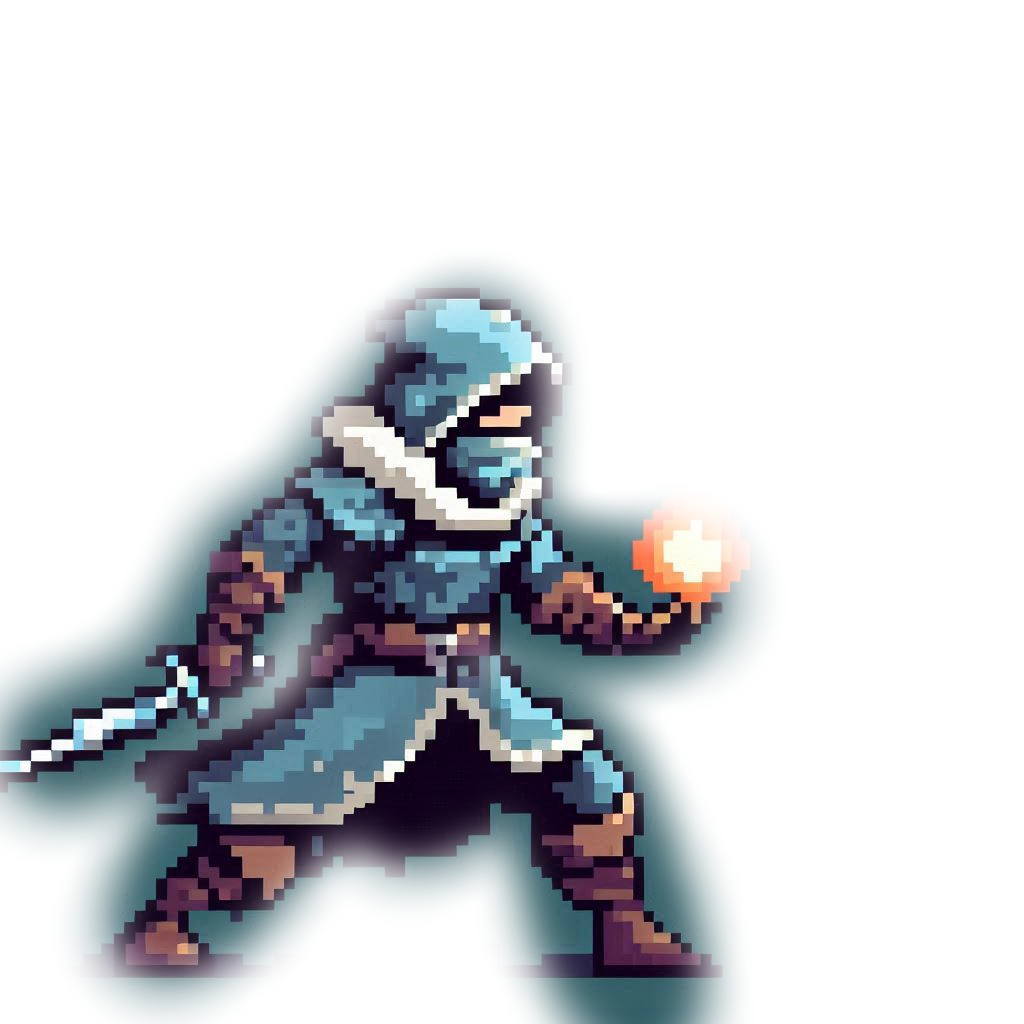
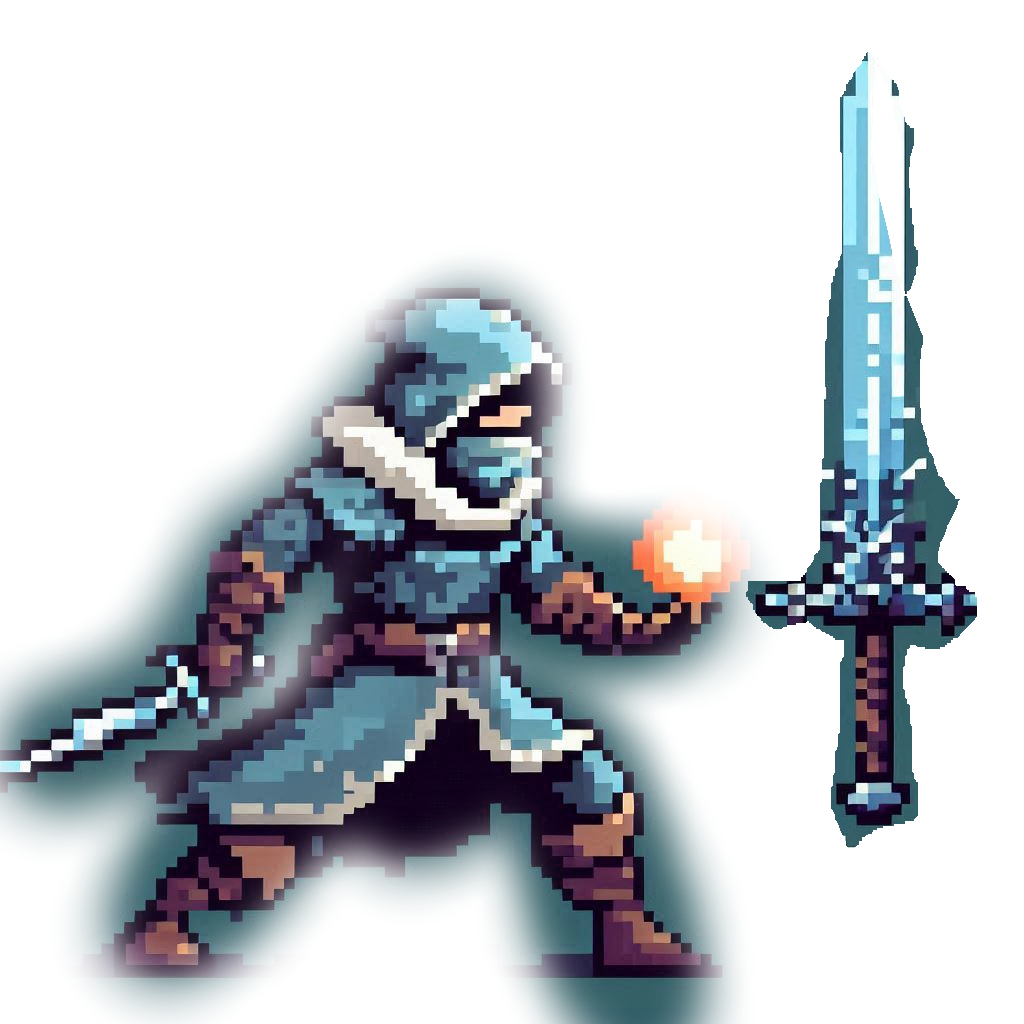
Animation

Changed region(s): [[0.7188, 0.0625, 0.9688, 0.8438]]

diff --git a/InitialScrapWork.html b/InitialScrapWork.html
@@ -5,10 +5,28 @@
     <title>2D Side Scroller</title>
     <style>
         canvas { background: #eee; display: block; margin: 0 auto; }
+
+        /* CSS for rotating the sword */
+        .sword-attack {
+            position: absolute;
+            width: 100px; /* Adjust the size as needed */
+            height: 100px; /* Adjust the size as needed */
+            animation: swing 0.5s forwards;
+        }
+
+        @keyframes swing {
+            0% { transform: rotate(0deg); }
+            25% { transform: rotate(20deg); }
+            50% { transform: rotate(40deg); }
+            75% { transform: rotate(60deg); }
+            100% { transform: rotate(80deg); }
+        }
     </style>
 </head>
 <body>
-    <canvas id="gameCanvas" width="800" height="400"></canvas>
+    <canvas id="gameCanvas" width="1600" height="800"></canvas>
+    <img id="sword" class="sword-attack" src="art/croppedsword.png" style="display: none;" />
+
     <script>
         const canvas = document.getElementById('gameCanvas');
         const ctx = canvas.getContext('2d');
@@ -24,17 +42,25 @@
             jumpPower: 12,
             isJumping: false,
             doubleJump: false,
-            gravity: 0.5
+            gravity: 0.5,
+            facingRight: true // Track the direction the character is facing
         };
 
         let keys = {};
         let characterImage = new Image();
-        characterImage.src = "art/charcropped.png"; // Replace with the correct path to your pixel art image
+        characterImage.src = "art/charnosword.png"; // Replace with the correct path to your pixel art image
 
         // Ensure the image is loaded before drawing
         characterImage.onload = function() {
             function drawCharacter() {
-                ctx.drawImage(characterImage, character.x, character.y, character.width, character.height);
+                ctx.save(); // Save the current canvas state
+                if (!character.facingRight) {
+                    ctx.scale(-1, 1); // Flip horizontally
+                    ctx.drawImage(characterImage, -character.x - character.width, character.y, character.width, character.height);
+                } else {
+                    ctx.drawImage(characterImage, character.x, character.y, character.width, character.height);
+                }
+                ctx.restore(); // Restore the canvas state
             }
 
             function clearCanvas() {
@@ -52,9 +78,11 @@
             function moveCharacter() {
                 if (keys['ArrowLeft']) {
                     character.dx = -character.speed;
+                    character.facingRight = false; // Update direction
                 }
                 if (keys['ArrowRight']) {
                     character.dx = character.speed;
+                    character.facingRight = true; // Update direction
                 }
                 if (!keys['ArrowLeft'] && !keys['ArrowRight']) {
                     character.dx = 0;
@@ -68,6 +96,40 @@
                     character.dy = -character.jumpPower;
                     character.doubleJump = true;
                 }
+
+// Assuming this is within the key press handling block
+if (keys['a']) {
+    console.log("A key pressed");
+    let sword = document.getElementById("sword");
+
+    // Load the image to get its natural dimensions
+    let swordImage = new Image();
+    swordImage.src = "art/croppedsword.png"; // Replace with the correct path to your sword image
+
+    swordImage.onload = function() {
+        // Set the sword's width and height to the image's natural dimensions
+        sword.style.width = swordImage.naturalWidth + "px";
+        sword.style.height = swordImage.naturalHeight + "px";
+
+        // Make the sword visible and position it
+        sword.style.display = "block";
+        sword.style.position = "absolute";
+        if (character.facingRight) {
+            sword.style.left = (character.x + character.width + canvas.offsetLeft) + "px"; // Adjusted for right-facing
+        } else {
+            sword.style.left = (character.x - swordImage.naturalWidth + canvas.offsetLeft) + "px"; // Adjusted for left-facing
+        }
+        sword.style.top = (character.y + canvas.offsetTop + (character.height / 2) - (swordImage.naturalHeight / 2)) + "px"; // Centering the sword vertically
+        sword.classList.add("sword-attack");
+
+        setTimeout(() => {
+            sword.style.display = "none";
+            sword.classList.remove("sword-attack");
+        }, 200);
+    };
+}
+
+
             }
 
             function applyGravity() {
